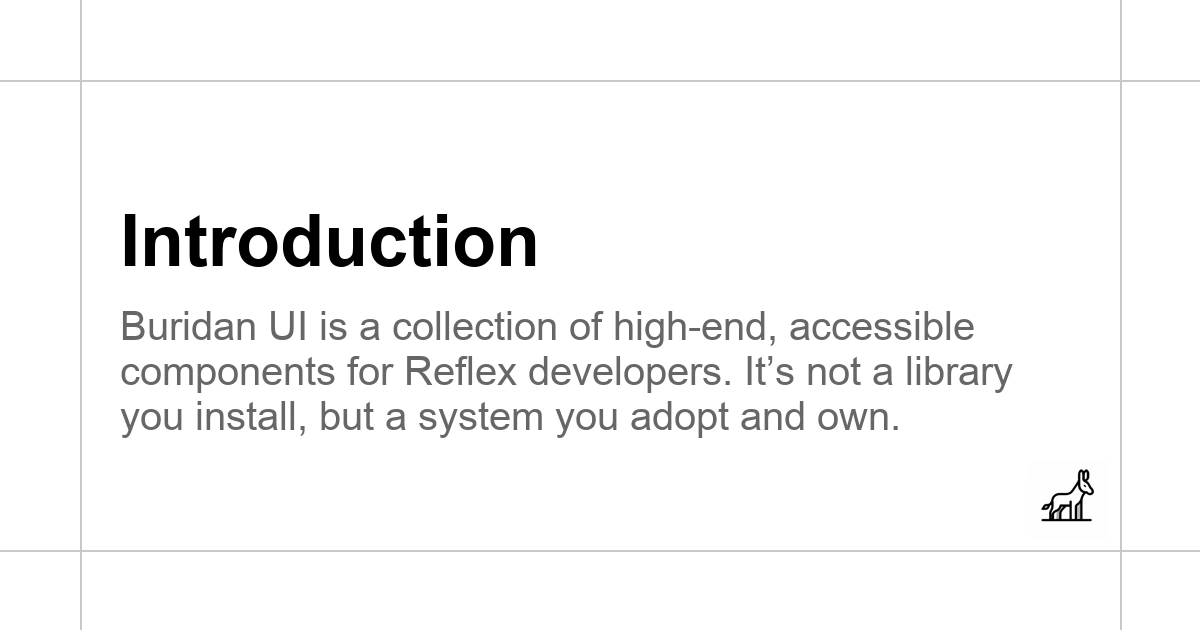
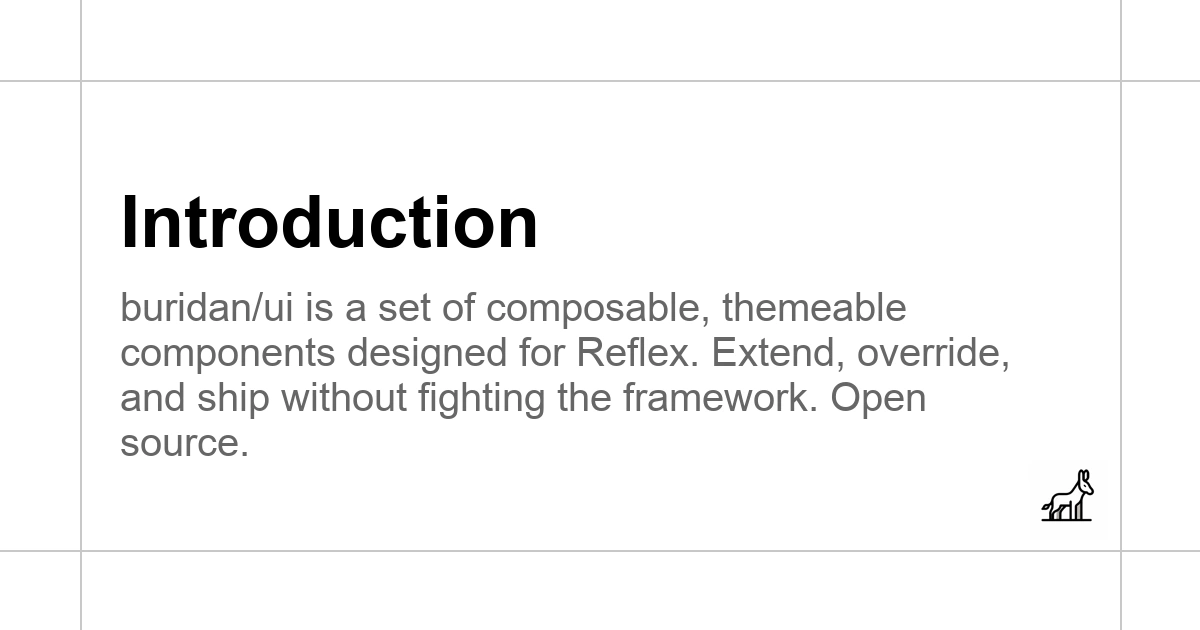
update social cards

Changed region(s): [[0.0925, 0.4524, 0.8633, 0.7238], [0.0925, 0.3016, 0.4625, 0.4222]]

diff --git a/assets/docs/getting-started/javascript.md b/assets/docs/getting-started/javascript.md
@@ -1,0 +1,39 @@
+
+
+
+# JavaScript
+
+How to use buridan/ui with JavaScript.
+
+Although 99% of your Reflex apps will be in pure Python, the occasional [JavaScript](https://reflex.dev/docs/api-reference/browser-javascript) may come in handy to make things more feasible.
+
+Two main ways to run in-line JavaScript in your Reflex app:
+
+- `rx.script` → load inline or external scripts
+- `rx.call_script` → run JS from event handlers
+
+To use `rx.script`, you need to add the path to the JavaScript code into your `rx.App` instance.
+
+```reflex
+rx.App(head_components=[rx.script(...)])
+```
+
+To use `rx._call_script`, you can attach it to any of the event triggers available to Reflex components. 
+
+```python
+rx.el.button(
+    "Expand",
+    class_name="!text-xs text-muted-foreground hover:text-foreground",
+    on_click=rx.call_script("""
+        const btn = event.currentTarget;
+    
+        if (btn.innerText === "Expand") {
+            btn.innerText = "Collapse";
+        } else {
+            btn.innerText = "Expand";
+        }
+    """),
+)
+```
+
+>Custom Javascript code in your Reflex app presents a maintenance challenge, as it will be harder to debug and may be unstable across Reflex versions. Prefer to use the Python API whenever possible and file an issue if you need additional functionality that is not currently provided.

diff --git a/assets/docs/resources/events.md b/assets/docs/resources/events.md
@@ -59,17 +59,23 @@ rx.el.button(
 
 # Common Event Triggers
 
-- `on_click`: Triggered on mouse click.
-- `on_change`: Triggered when an input value changes.
-- `on_submit`: Triggered when a form is submitted.
-- `on_mount`: Triggered when a component is first rendered on the page.
-- `on_blur`: Triggered when a component loses focus.
+Triggers than can be attached to Reflex components:
+
+| Event | Description |
+| :--- | :--- |
+| `on_click` | Triggered on mouse click. |
+| `on_change` | Triggered when an input value changes. |
+| `on_submit` | Triggered when a form is submitted. |
+| `on_mount` | Triggered when a component is first rendered on the page. |
+| `on_blur` | Triggered when a component loses focus. |
 
 # Special Actions
 
 Reflex provides built-in "Special Actions" that can be triggered from handlers:
 
-- `rx.redirect(url)`: Navigate to a new page.
-- `rx.set_clipboard(text)`: Copy text to the user's clipboard.
-- `rx.toast(message)`: Show a brief notification.
-- `rx.call_script(js)`: Execute custom JavaScript in the browser.
+| Utility | Description |
+| :--- | :--- |
+| `rx.redirect(url)` | Navigate to a new page. |
+| `rx.set_clipboard(text)` | Copy text to the user's clipboard. |
+| `rx.toast(message)` | Show a brief notification. |
+| `rx.call_script(js)` | Execute custom JavaScript in the browser. |

diff --git a/assets/docs/getting-started/introduction.md b/assets/docs/getting-started/introduction.md
@@ -6,7 +6,7 @@ buridan/ui is a set of composable, themeable components designed for [Reflex](ht
 
 The library is heavily influenced by the popular [shadcn/ui](https://ui.shadcn.com/) library for the React ecosystem. 
 
-Much like `shadcn/ui`, buridan/ui aims to provide a way to build your own compoenent library with full control over your themes, styles, and other UI aspects. 
+Much like `shadcn/ui`, buridan/ui aims to provide a way to build your own component library with full control over your themes, styles, and other UI aspects. 
 
 # Open Source
 
@@ -19,9 +19,9 @@ Everything attributed to buridan/ui is open source. The entire codebase, includi
 
 # Composition
 
-Currently, buridan/ui wraps the new and popular [Base UI](https://base-ui.com/react/overview/quick-start) component library. That means shared APIs and similier anatomies betwen the two. The onyl diffrence is buridan/ui is a UI library for the `Reflex` web framework. 
+Currently, buridan/ui wraps the new and popular [Base UI](https://base-ui.com/react/overview/quick-start) component library. That means shared APIs and similar anatomies between the two. The only difference is buridan/ui is a UI library for the `Reflex` web framework. 
 
-This appraoch in combination with the open source nature of the library makes it easy for users to adjust, tweak, and refine any part of the component composition. If an API is missing from any of the components, it can easily be integrated into the API by matching it with the API found in `Base UI` documentation. 
+This approach in combination with the open source nature of the library makes it easy for users to adjust, tweak, and refine any part of the component composition. If an API is missing from any of the components, it can easily be integrated into the API by matching it with the API found in `Base UI` documentation. 
 
 # Architecture 
 

diff --git a/assets/docs/getting-started/installation.md b/assets/docs/getting-started/installation.md
@@ -8,7 +8,7 @@ How to install dependencies and structure your app.
 
 # Use buridan/create
 
-Build your preset visually, preview your choices, and generate a framework-specific setup command. You can use your final theme system locally or pipelined to Reflex Build. Start with the default preset [Neutral](/create?preset=b0)
+Build your preset visually, preview your choices, and generate a framework-specific setup command. You can use your final theme system locally or pipe-lined to Reflex Build. Start with the default preset [Neutral](/create?preset=b0)
 
 ## Prerequisites
 
@@ -26,7 +26,7 @@ After setting up your Reflex environment, you can install the `buridan` package 
 dependencies = ["buridan-create=={current version}"]
 ```
 
-After adding the package with the latest vesion, you can run the following command to install it. 
+After adding the package with the latest version, you can run the following command to install it. 
 
 
 ```uv

diff --git a/assets/docs/resources/theming.md b/assets/docs/resources/theming.md
@@ -15,7 +15,7 @@ rx.el.div(class_name="bg-background text-foreground")
 
 To use CSS variables for theming, make the following changes to your `rxconfig.py` file found at the root of your Reflex app. 
 
-Import the tailwind plugin `TailwindConfig`, add it to the `plugins=[...]` list, define (or remove if unecessary) `darkMode` or specific `plugins`, then finally set the `theme` and extend the colors based on the CSS tokens in your `globals.css` file in your assets folder.
+Import the tailwind plugin `TailwindConfig`, add it to the `plugins=[...]` list, define (or remove if unnecessary) `darkMode` or specific `plugins`, then finally set the `theme` and extend the colors based on the CSS tokens in your `globals.css` file in your assets folder.
 
 ```rxconfig.py
 from reflex.plugins.shared_tailwind import TailwindConfig